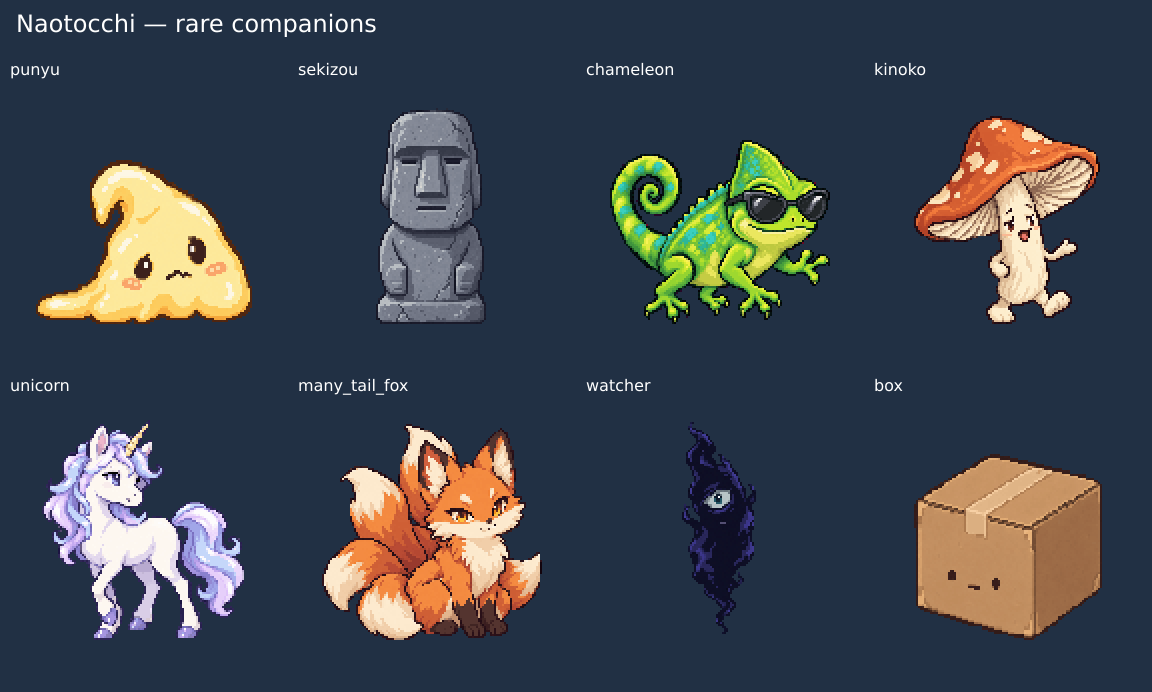
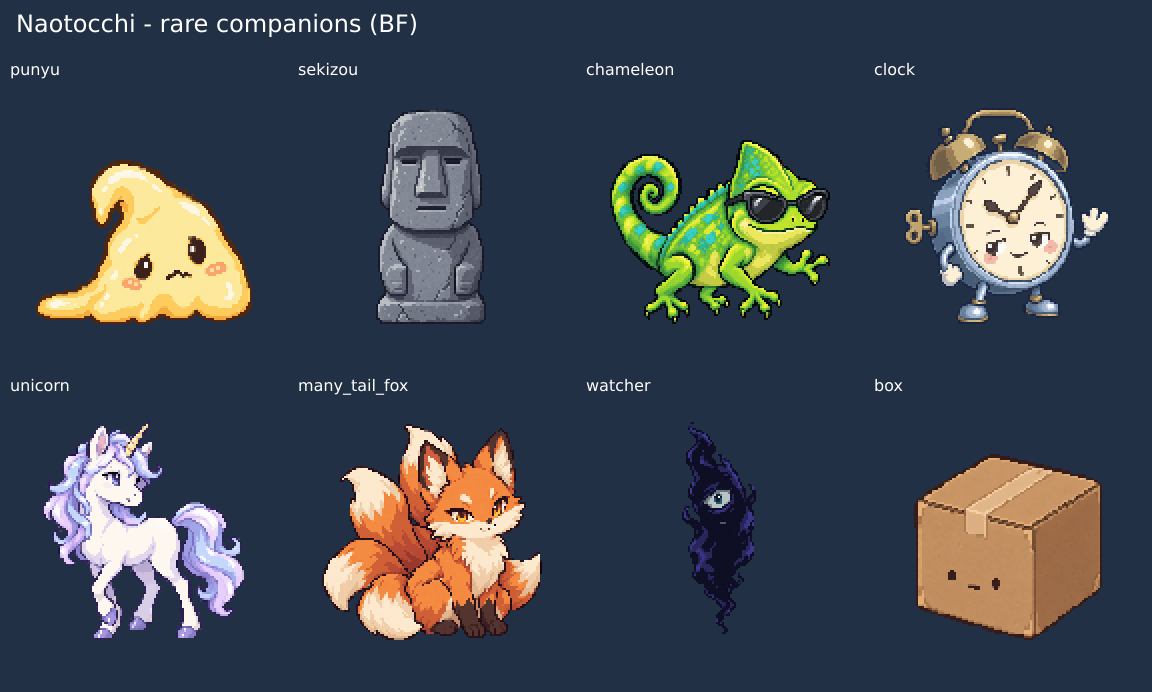
Replace rare mushroom with a laid-back clock; retain legacy saves (BF)

Changed region(s): [[0.7812, 0.1517, 0.9688, 0.4855], [0.125, 0.0, 0.375, 0.0607], [0.75, 0.091, 0.8125, 0.1214]]

diff --git a/script.js b/script.js
@@ -4012,6 +4012,11 @@
       "座る前から ここに生えてた",
       "傘は 貸せないんだ"
     ],
+    "clock": [
+      "ぴったり 遅れてきたよ",
+      "秒針だけ 先に帰った",
+      "今? だいたい このへん"
+    ],
     "unicorn": [
       "道に迷った顔では ないよ",
       "角の向きだけ 気をつけるね",
@@ -4424,6 +4429,23 @@
       ],
       "minigame_bad": [
         "日かげで 作戦たてよう"
+      ]
+    },
+    "clock": {
+      "feed": [
+        "おやつに 時計は合わせてある"
+      ],
+      "play_with": [
+        "もう一回? じゃあ針は 見ないでおく"
+      ],
+      "travel": [
+        "出発時刻? 着いてから決めよう"
+      ],
+      "minigame_great": [
+        "拍手の時間だね。ここは遅れない"
+      ],
+      "minigame_bad": [
+        "休憩は きっちり計らなくていいよ"
       ]
     },
     "unicorn": {
@@ -6943,6 +6965,7 @@
     sekizou:{emoji:'🗿',vibe:'シュール',flavor:'石像が ある。さっきより 近い 気がする',joined:'気づいたら 家まで ついてきた'},
     chameleon:{emoji:'🦎',vibe:'おしゃれ',flavor:'サングラスを かけた カメレオンが かべから はんぶん はえている',joined:'「よろしく」と ひとことだけ 言った'},
     kinoko:{emoji:'🍄',vibe:'意味不明',flavor:'きのこが しゃべっている。「やあ」と いわれた',joined:'「じゃ、いこっか」と きのこが 歩きだした'},
+    clock:{emoji:'⏰',vibe:'マイペース',flavor:'時計が「ぴったり遅れてきたよ」と 手を振った。待ち合わせは していない',joined:'「出発は だいたい今だね」と 時計が ついてきた'},
     unicorn:{emoji:'🦄',vibe:'神々しい',flavor:'ユニコーンが まよいこんできた。本人は ぜんぜん 困っていない',joined:'なぜか そのまま ついてきた'},
     many_tail_fox:{emoji:'🦊',vibe:'妖しい',flavor:'きつねの しっぽを 数えた。数えるたびに 数が ちがう',joined:'しっぽを ゆらして ついてきた'},
     watcher:{emoji:'👁',vibe:'こわい',flavor:'画面の はしから なにかが ずっと みている',joined:'見ないふりをしたら いつのまにか 仲間の列にいた'},
@@ -6982,6 +7005,12 @@
     { id:'koala', name:'のんびり コアラ', preferredRegions:[], ...COMPANION_RUNTIME.koala },
   ];
 
+  // 既に出会ったきのこは、その姿・会話・なかよし度・レア図鑑を保つ。
+  // 時計へのID変換や新規遭遇は行わない。
+  const LEGACY_RARE_COMPANIONS = [
+    { id:'kinoko', name:'しゃべる きのこ', asset:'assets/characters/companions/kinoko.png', ...RARE_COMPANION_RUNTIME.kinoko },
+  ];
+
   function hasAllCurrentCompanions(lifetime) {
     const known = new Set((lifetime.companionsRecruited || []).map(canonicalCompanionId));
     return COMPANIONS.every((c) => known.has(c.id));
@@ -6989,6 +7018,11 @@
 
   function companionDexEntries() {
     return COMPANIONS.concat(LEGACY_COMPANIONS.filter((c) => hasRecruitedCompanionId(c.id)));
+  }
+
+  function rareCompanionDexEntries() {
+    const known = new Set((state.lifetime.rareCompanionsRecruited || []).map(canonicalCompanionId));
+    return RARE_COMPANIONS.concat(LEGACY_RARE_COMPANIONS.filter((c) => known.has(c.id)));
   }
 
   function companionVisualHTML(companion, size = 'thumb') {
@@ -7010,7 +7044,8 @@
   function allCompanionsById(id) {
     const canonical = canonicalCompanionId(id);
     return COMPANIONS.find((c) => c.id === canonical) || RARE_COMPANIONS.find((c) => c.id === canonical)
-      || LEGACY_COMPANIONS.find((c) => c.id === canonical);
+      || LEGACY_COMPANIONS.find((c) => c.id === canonical)
+      || LEGACY_RARE_COMPANIONS.find((c) => c.id === canonical);
   }
 
 
@@ -11099,22 +11134,24 @@
 
   // そだち80「レアの きざし」で であえる レアなかまの セクション。まだ
   // ひとりも であっていない あいだは セクションごと かくして おく - ❓が
-  // 5つ ならんでいるだけの「たりない ずかん」に 見えない ように する ため。
+  // ならんでいるだけの「たりない ずかん」に 見えない ように する ため。
   // ヘッダーの ぜんたい数(dexProgress)にも かぞえない。ここは
   // ずかんクリア(dex-complete)の じょうけんとは まったく べつの、
   // であえたら うれしい だけの おまけの コレクション
   function renderRareCompanionDex() {
-    const recruited = state.lifetime.rareCompanionsRecruited || [];
-    const show = recruited.length > 0;
+    const entries = rareCompanionDexEntries();
+    const recruited = new Set((state.lifetime.rareCompanionsRecruited || []).map(canonicalCompanionId));
+    const knownCount = entries.filter((c) => recruited.has(c.id)).length;
+    const show = knownCount > 0;
     el.rareCompanionDexDivider.classList.toggle('hidden', !show);
     el.rareCompanionDexGrid.classList.toggle('hidden', !show);
     if (!show) {
       el.rareCompanionDexGrid.innerHTML = '';
       return;
     }
-    el.rareCompanionDexProgress.textContent = `${recruited.length} / ${RARE_COMPANIONS.length}`;
-    el.rareCompanionDexGrid.innerHTML = RARE_COMPANIONS.map((c) => {
-      const known = recruited.includes(c.id);
+    el.rareCompanionDexProgress.textContent = `${knownCount} / ${entries.length}`;
+    el.rareCompanionDexGrid.innerHTML = entries.map((c) => {
+      const known = recruited.has(c.id);
       return known
         ? `<div class="dex-cell known"><span class="dex-cell-emoji">${companionVisualHTML(c)}</span><span class="dex-cell-label">${c.name}</span></div>`
         : '<div class="dex-cell locked"><span class="dex-cell-emoji">❓</span><span class="dex-cell-label">？？？</span></div>';
@@ -20337,7 +20374,8 @@
       const companion = allCompanionsById(pendingCompanionId);
       pendingCompanionId = null;
       if (companion) {
-        const isRare = RARE_COMPANIONS.some((c) => c.id === companion.id);
+        const isRare = RARE_COMPANIONS.some((c) => c.id === companion.id)
+          || LEGACY_RARE_COMPANIONS.some((c) => c.id === companion.id);
         const threshold = isRare ? RARE_COMPANION_RECRUIT_THRESHOLD : COMPANION_RECRUIT_THRESHOLD;
         if (clampedScore >= threshold) {
           const record = isRare

diff --git a/tests/dialogue-test.js b/tests/dialogue-test.js
@@ -101,7 +101,7 @@ const expose = `
     hatchEgg, triggerDeath, enterFarewell, openExclusiveMenu, openDateChooser, closeDateOverlay, checkAchievements,
     loadState, COMPANIONS, RARE_COMPANIONS, allCompanionsById, canonicalCompanionId,
     hasAllCurrentCompanions, companionDexEntries, companionVisualHTML, renderCompanionRow, renderCompanionDex,
-    renderRareCompanionDex, renderProfile, openCompanionInvite,
+    renderRareCompanionDex, rareCompanionDexEntries, renderProfile, openCompanionInvite, scheduleCompanionEncounter,
     getState: () => state, recent: () => [...recentConversationLines],
     reset: (patch) => {
       clearConversationTimers(); clearDateMovieTimers(); hideSpeechBubble(); closeAllMenuOverlays();
@@ -111,6 +111,7 @@ const expose = `
         hunger: 50, energy: 90, happiness: 80, health: 100,
       }, patch);
       recentConversationLines = []; message = ''; gameActive = false; dateOpen = false;
+      grandGoalPending = null; pendingCompanionId = null;
       lastMemoryRecallKey = null;
     },
   };
@@ -524,3 +525,76 @@ for (const c of [...normalCast, ...rareCast]) assert.equal(allRows.join('').spli
 assert.equal(getElement('companionDexProgress').textContent, '18 / 18');
 assert.equal(getElement('rareCompanionDexProgress').textContent, '8 / 8');
 console.log('RARE CAST PNG TEST OK: 8 PNGs x 5 renderer sizes; invite/profile/row/dex; hidden and partial dex; 13+13 mixed rows; bond retained.');
+
+// The new clock has its own encounter and dialogue; a collected mushroom stays itself.
+const clockCompanion = api.allCompanionsById('clock');
+assert.ok(clockCompanion);
+assert.equal(clockCompanion.name, 'じかんに ルーズな とけい');
+assert.ok(api.RARE_COMPANIONS.some((c) => c.id === 'clock'));
+assert.ok(!api.RARE_COMPANIONS.some((c) => c.id === 'kinoko'));
+assert.equal(api.canonicalCompanionId('kinoko'), 'kinoko');
+assert.ok(master.compatibility.legacyOnlyCompanions.includes('kinoko'));
+reset();
+const oldRareLife = JSON.parse(JSON.stringify(api.getState()));
+oldRareLife.companions = [{ id: 'kinoko', bond: 73 }];
+oldRareLife.lifetime.rareCompanionsRecruited = ['kinoko'];
+oldRareLife.achievementsUnlocked = ['companion-all'];
+savedPayload = JSON.stringify(oldRareLife);
+const loadedOldRareLife = api.loadState();
+assert.equal(savedPayload, JSON.stringify(oldRareLife), 'source save must remain intact');
+savedPayload = null;
+assert.equal(loadedOldRareLife.companions[0].id, 'kinoko');
+assert.equal(loadedOldRareLife.companions[0].bond, 73);
+assert.deepEqual([...loadedOldRareLife.lifetime.rareCompanionsRecruited], ['kinoko']);
+assert.ok(loadedOldRareLife.achievementsUnlocked.includes('companion-all'));
+reset(loadedOldRareLife);
+assert.equal(api.companionSpeaker(api.getState().companions[0]).id, 'kinoko');
+api.renderCompanionRow(); api.renderProfile(); api.renderRareCompanionDex(); api.renderCompanionDex();
+assert.equal(getElement('rareCompanionDexProgress').textContent, '1 / 9');
+assert.equal(getElement('companionDexProgress').textContent, '0 / 18');
+for (const id of ['companionLeft', 'profileCompanionList', 'rareCompanionDexGrid']) {
+  assert.match(getElement(id).innerHTML, /assets\/characters\/companions\/kinoko\.png/);
+  assert.ok(!getElement(id).innerHTML.includes(clockCompanion.asset), 'old mushroom must not unlock or become the clock');
+}
+assert.ok(!getElement('companionDexGrid').innerHTML.includes('kinoko'));
+api.speakEvent('feed', { companionChance: 1 }); advance(10000);
+assert.ok(spoken.some((beat) => beat.speaker.id === 'kinoko' && api.COMPANION_DAILY_REACTIONS.kinoko.feed.includes(beat.text)));
+
+// Current entries and an already collected legacy entry count once, including across lives.
+reset();
+api.getState().lifetime.rareCompanionsRecruited = [...rareCast.map((c) => c.id), 'kinoko', 'kinoko', 'unrecognized-old-id'];
+api.renderRareCompanionDex();
+assert.equal(getElement('rareCompanionDexProgress').textContent, '9 / 9');
+assert.equal(getElement('rareCompanionDexGrid').innerHTML.split('src="assets/characters/companions/kinoko.png"').length - 1, 1);
+assert.equal(api.rareCompanionDexEntries().length, 9);
+reset();
+assert.equal(api.rareCompanionDexEntries().length, 8, 'unmet legacy character must not add a locked slot');
+api.getState().lifetime.rareCompanionsRecruited = ['unrecognized-old-id'];
+api.renderRareCompanionDex();
+assert.ok(getElement('rareCompanionDexGrid').classList.contains('hidden'));
+
+for (const [key, lines] of Object.entries(api.COMPANION_DAILY_REACTIONS.clock)) {
+  reset({ companions: [{ id: 'clock', bond: 80 }] });
+  api.speakEvent(key, { companionChance: 1, partnerChance: 0 }); advance(10000);
+  assert.ok(spoken.some((beat) => beat.speaker.id === 'clock' && lines.includes(beat.text)), key + ': clock reaction missing');
+}
+
+// With every other current companion present, the actual scheduler offers the new clock.
+reset({ sodachi: 80, maxSodachi: 80, companions: [...normalCast, ...rareCast.filter((c) => c.id !== 'clock'), { id: 'kinoko' }].map((c) => ({ id: c.id, bond: 80 })) });
+api.scheduleCompanionEncounter(); advance(180000);
+assert.equal(getElement('companionInviteTitle').textContent, 'じかんに ルーズな とけいと めが あった');
+assert.ok(getElement('companionInviteOverlay').classList.contains('rare'));
+click('companionInviteLaterBtn');
+
+// Preserve the actual GitHub baseline: rare recruitment requires 70 points.
+for (const score of [69, 70]) {
+  reset({ sodachi: 80, maxSodachi: 80 });
+  api.openCompanionInvite(clockCompanion, true);
+  api.finishMinigame(score);
+  assert.equal(api.getState().lifetime.rareCompanionsRecruited.includes('clock'), score >= 70);
+  assert.equal(api.getState().companions.some((c) => c.id === 'clock'), score >= 70);
+  assert.ok(!api.getState().lifetime.companionsRecruited.includes('clock'), 'clock must use the rare collection');
+  if (score >= 70) assert.equal(api.getState().companions.find((c) => c.id === 'clock').bond, 100);
+  click('companionInviteLaterBtn');
+}
+console.log('CLOCK CAST TEST OK: real encounter and 69/70 recruitment; five dialogue events; legacy mushroom save, bond, PNG, dialogue and rare dex; unique current/legacy counts.');

diff --git a/character-world-master.v1.js b/character-world-master.v1.js
@@ -84,7 +84,7 @@ const NAOTOCCHI_CHARACTER_WORLD_MASTER_V1 = {
       { id: 'punyu', label: 'とけかけの ぷにゅ', asset: 'assets/characters/companions/punyu.png' },
       { id: 'sekizou', label: 'むひょうじょうの せきぞう', asset: 'assets/characters/companions/sekizou.png' },
       { id: 'chameleon', label: 'サングラスの カメレオン', asset: 'assets/characters/companions/chameleon.png' },
-      { id: 'kinoko', label: 'しゃべる きのこ', asset: 'assets/characters/companions/kinoko.png' },
+      { id: 'clock', label: 'じかんに ルーズな とけい', behavior: '時刻を聞かれても大まかに答える。遅れて来ても落ち着いている', asset: 'assets/characters/companions/clock.png' },
       { id: 'unicorn', label: 'まよいこんだ ユニコーン', asset: 'assets/characters/companions/unicorn.png' },
       { id: 'many_tail_fox', label: 'しっぽの おおい きつね', asset: 'assets/characters/companions/many_tail_fox.png' },
       { id: 'watcher', label: 'みている なにか', asset: 'assets/characters/companions/watcher.png' },
@@ -180,7 +180,7 @@ const NAOTOCCHI_CHARACTER_WORLD_MASTER_V1 = {
       chameleon: 'chameleon',
       kinoko: 'kinoko',
     },
-    legacyOnlyCompanions: ['hakuchou','koala'],
+    legacyOnlyCompanions: ['hakuchou','koala','kinoko'],
 
     partnerAliases: {
       mermaid: 'sea_mermaid',

diff --git a/index.html b/index.html
@@ -607,7 +607,7 @@
 
   <div class="season-front-fx" id="seasonFrontFx"></div>
 
-  <script src="character-world-master.v1.js?v=20260909-cast-rare-be-1"></script>
-  <script src="script.js?v=20260909-cast-rare-be-1"></script>
+  <script src="character-world-master.v1.js?v=20260909-cast-clock-bf-1"></script>
+  <script src="script.js?v=20260909-cast-clock-bf-1"></script>
 </body>
 </html>

diff --git a/docs/art/rare-cast-128.md b/docs/art/rare-cast-128.md
@@ -1,6 +1,8 @@
-# レア仲間8体の128px画像（チェックポイントBE）
+# レア仲間8体の128px画像（チェックポイントBF）
 
-現行WORLD_MASTERのレア仲間8体に専用PNGを追加した。通常仲間18体と合わせ、仲間26体が既存のCharacter Rendererで画像を表示できる。先行267枚（プレイヤー248・作者1・通常仲間18）は、GitHub HEAD `79a47d46ee47075c238e08945ca458d8e7d38f41` とバイト一致のまま保持した。
+ユーザーの承認に基づき、新規遭遇の「しゃべる きのこ」を「じかんに ルーズな とけい」へ交代した。育成キノコはそのまま残す。現行の通常仲間18体とレア仲間8体、計26体に専用PNGがある。
+
+基準はPR #183のGitHub HEAD `db0969d95eaffb502af677222df2217f63e95de5`（BE、Runtime #223 SUCCESS）。時計1枚だけを新規制作し、既存275枚は旧きのこの画像も含めてバイト不変で保持した。
 
 ![128px実寸のレア仲間8体](rare-cast-128.png)
 
@@ -13,7 +15,7 @@
 | `punyu` | 淡い黄色の身体が片側へ広がる、困り顔のぷにゅ。丸い紫の？？？とは輪郭と材質を分けた。 |
 | `sekizou` | 灰色の石像。細い彫り目・長い鼻・一直線の口で無表情を保持。台座まで一続きの像。 |
 | `chameleon` | 緑と青緑の身体、サングラス、口元の笑み、巻いた尾。4本の脚と足先を残した。 |
-| `kinoko` | 傾いた銅橙色の傘と長い柄、歩く足、話しかける腕と開いた口。育成キノコと姿勢・傘の輪郭を分けた。 |
+| `clock` | 青銀色の丸い目覚まし時計、真鍮色の二つのベル、アイボリーの文字盤。半目の穏やかな笑顔で手を振る。時計の針と目・口を分け、両腕・両足・ぜんまいを残した。 |
 | `unicorn` | 白い身体、淡い紫と青のたてがみ、一本の角、4本の脚。迷子でも落ち着いた表情。 |
 | `many_tail_fox` | 琥珀色の目と穏やかな笑み。重なった尾の先を5つ見せ、数えたくなる輪郭にした。ゲーム側へ尾の本数の固定設定は追加しない。 |
 | `watcher` | 細い紺色の影に一つの目と小さな口。ぷにゅの丸さやおばけの愛嬌と区別し、こちらを見る存在感を重視。 |
@@ -21,16 +23,22 @@
 
 ## 制作・実装
 
-内蔵画像生成で一体ずつ制作。カメレオンだけ、足先の省略を単体修正し、編集後に生じた市松背景を背景のみの再編集でマゼンタへ置き換えて透過した。巻いた尾の内側・脚の間も抜き、緑の身体・爪・サングラスの反射を保持した。他7枚は修正のたびに再生成していない。
+時計は内蔵画像生成で一体だけ制作。原画の透過alphaを使い、個体全体の範囲を確認してnearest-neighborで128pxへ縮小した。減色後もベル・取っ手・ぜんまい・両腕・両足・目・口・頬を確認。他のキャラは再生成・再減色していない。
 
-各単体の全身を確認し、個別の縮尺で128pxへ書き出した。一覧の均等分割・一括crop・GrabCutは不使用。新8枚は128×128・8-bit RGBA・二値alpha・最大63不透明色・上下左右8px以上の透明余白。全275 PNGのCRC・実復号・寸法・透過・余白を確認し、先行267枚を再減色していない。
+時計のPNGは128×128・8-bit RGBA・二値alpha・最大63不透明色・上下左右8px以上の透明余白。全chunk CRC・実復号・寸法・色数・余白・SHA-256を確認。一覧の均等分割・一括crop・GrabCutは不使用。上の一覧画像は各完成PNGから組み立てた確認用画像であり、個別素材の切り出し元ではない。
 
-レア仲間の定義とRuntimeへassetを渡し、レア図鑑を共有画像表示関数へ接続した。誘い画面・プロフィール・仲間列は既存の共有処理をそのまま利用する。キャストID、名称、セリフ、遭遇・加入条件、セーブ形式、CSSは変更していない。
+WORLD_MASTERの新規レア枠に独立ID `clock` を登録。待機会話3本、食事・じゃれる・移動・ゲーム成功・失敗の反応各1本、初遭遇・加入文を追加した。誘い画面・プロフィール・仲間列・レア図鑑は共有の画像表示を使う。
+
+### 旧セーブと出会いの条件
+
+旧セーブの `kinoko` は時計へ変換しない。同行・なかよし度・専用PNG・従来の会話・獲得済み記録を保持し、新規遭遇の抽選からだけ外した。既に獲得していた人のレア図鑑にはきのこも残り、現在8枠に旧1枠が加わる。未獲得の人には旧枠を増やさない。重複IDや不明な旧IDで図鑑の分子を水増ししない。
+
+出会いは従来どおり「そだち80」以降。加入条件の実装値はGitHub基準で **70点以上** であり、今回変更していない。時計はレアの獲得記録に入り、通常仲間のコンプリート条件やゲームの時間進行には作用しない。
 
 ## 検証と残作業
 
-Runtime smoke（DOM 286 / ミニゲーム89 / variant collections 80）と会話・本文・旧コアラ互換の回帰テストが成功。追加テストでは、8体×5表示サイズ、各体の誘い・プロフィール・仲間列・図鑑、未遭遇時のレア図鑑非表示、1/8表示、8/8表示、通常とレアを合わせた左右13体ずつの参照、なかよし度の保持を確認した。
+Runtime smoke（DOM 286 / ミニゲーム89 / variant collections 80）と会話・全248段階本文・旧コアラ互換・通常/レアPNGの既存回帰テストが成功。追加テストでは、実際の遭遇スケジューラーによる時計の選択、69点では未加入・70点で加入、5種の行動会話、旧きのこの読込・なかよし度・同行・プロフィール・PNG・会話・レア図鑑、通常図鑑との分離を確認。レア図鑑は新規8/8、旧きのこ保持時1/9・9/9、未獲得旧枠の非表示・重複/不明IDの除外を検証した。
 
-画像は原画・128px実寸・白背景・濃色背景で目視確認済み。実ゲームのブラウザー撮影は未実施で、この環境では前回の開発URLへの接続が `ERR_BLOCKED_BY_CLIENT` になっている。Runtimeハーネスの成功を実画面確認の成功とは扱わない。
+時計は原画・128px実寸・白背景・濃色背景で目視確認済み。実ゲームのブラウザー撮影は今回未実施。過去の開発URLへの接続は `ERR_BLOCKED_BY_CLIENT` となっており、Runtimeハーネスの成功を実画面確認の成功とは扱わない。
 
-専用キャスト45素材のうち27枚（作者1・通常仲間18・レア仲間8）が存在する。残りは恋人18枚。作者画像のイベント・エンディングへの反映と、実画面での表示確認も残る。全体は未完了、PR #183はopen / Draft・未マージで継続する。
+現行専用キャスト45素材のうち27枚（作者1・通常仲間18・レア仲間8）が存在する。別に旧きのこ1枚を保持し、プレイヤー248枚を含むキャラPNG総数は276枚。残りは恋人18枚、作者画像のイベント・エンディング反映、実画面確認。全体は未完了、PR #183はopen / Draft・未マージで継続する。

diff --git a/DEVELOPMENT_CHECKPOINT_2026-09-07.md b/DEVELOPMENT_CHECKPOINT_2026-09-07.md
@@ -1426,3 +1426,14 @@ Runtime smoke test SUCCESS確認済み。
 - `docs/art/rare-cast-128.md` と同ディレクトリのPNG/JSONに画像一覧・個体の特徴・生成指示・個別修正・寸法・余白・色数・SHA-256を保存。今回も実ブラウザーでのゲーム画面撮影は未実施であり、前回確認した環境の開発URL制限 `ERR_BLOCKED_BY_CLIENT` がある。画像レビューとRuntimeハーネスを実画面確認とは区別する。
 - 仲間は通常18＋レア8の26体に専用PNGが揃った。プレイヤー248枚、専用キャスト45素材中27枚（作者1・通常18・レア8）が存在する。残りの画像は恋人18枚。作者画像のイベント・エンディング反映と実画面確認も残り、全体は未完了。
 - GitHub反映後に当該HEADのtreeと追加・更新ファイルを実バイトで再取得・照合し、Actions結果と最新HEADをPR本文へ記録する。PR #183はopen / Draft・未マージで保持する。
+
+## チェックポイント BF — レアきのこを時間にルーズな時計へ交代（2026-09-09）
+- ユーザーが育成キノコとレアきのこの重複を指摘。実際の絵と現行キャスト・会話を比較し、「改善して維持」の判断を再検討した。ユーザーの「時計に変えますか！ それで進めて」に基づき、レアの新規遭遇1枠を独立ID `clock`、名称「じかんに ルーズな とけい」へ交代。育成 `mushroom` の8段階は変更しない。
+- GitHubのPR #183・HEAD・Actions・recursive treeを実取得。基準HEAD兼最後の成功コミットは `db0969d95eaffb502af677222df2217f63e95de5`、tree `5afd32b58da3743d1862fffa203dc8b220d2c5ba`、Runtime #223（run `34324103408`）SUCCESS。main `044780ddebdcb75ebb9e13ea26043b5230e003c7`。全299ファイルのGit blob SHAがローカルと一致してから作業した。
+- 時計1枚を内蔵画像生成で個別制作し、`assets/characters/companions/clock.png` に保存。青銀色の丸い体、真鍮色の二つのベル、アイボリーの文字盤、半目の笑顔、手を振る姿で他キャストと区別。取っ手・ぜんまい・両腕・両足・目・口・頬・針を保持し、原画・128px実寸・白/濃色背景で確認した。生成指示と原画/完成PNGのSHA-256は `docs/art/rare-cast-128-validation.json` に保存。
+- 新1枚は128×128 / 8-bit RGBA / alpha 0・255 / 不透明63色 / 全方向8px以上の透明余白。生成alphaを使って個別縮小し、全chunk CRC・実復号・余白・色数・ハッシュを確認。既存275枚（旧きのこを含む）はGitHub基準とバイト不変。均等セル分割・一括crop・GrabCut・他キャラの再生成は不使用。
+- 時計に待機会話3本、食事・じゃれる・移動・ゲーム成功・失敗の反応各1本、初遭遇・加入文を追加。新規のレア抽選は従来どおり8体。遭遇は「そだち80」以降、レア加入の現行コード値は **70点以上**。今回、加入条件・抽選率・ゲームの時間進行・CSS・通常仲間/恋人/伝説の設定は変更していない。
+- 旧 `kinoko` は時計へalias変換しない。専用の旧レア定義を用意し、セーブ中のID・なかよし度・同行・PNG・会話・獲得済み記録を保持。新規抽選から除外し、獲得済みの人にだけレア図鑑へ追加する。通常図鑑には混ぜず、現在8枠と旧1枠の表示は1/9〜9/9。未獲得の人は現在8枠のみ。重複・不明IDを進捗の分子へ加算しない。既存コアラ互換も保持。
+- Runtime smoke SUCCESS（DOM 286 / ミニゲーム89 / variant collections 80）。DIALOGUE / WHOLE-TEXT / CAST / NORMAL CAST PNG / RARE CAST PNGテストSUCCESS。新規CLOCK CASTテストは実際の遭遇スケジューラー、69点の不成立・70点の加入、レア記録とbond 100、5種類の行動会話、旧きのこの読込・画像・会話・図鑑、8/8・1/9・9/9・未獲得枠・重複/不明IDを確認。テスト間に前のゴール画面状態が残らないようハーネスのresetを補正し、製品のゴール処理は変更しない。
+- 現行レアの画像一覧と仕様・検証JSONを更新。現行専用キャスト45素材中27枚、別に旧きのこ1枚を保持し、プレイヤー248枚を含むキャラPNG総数は276枚。恋人18枚、作者画像のイベント・エンディング反映、実画面確認は残る。実ゲームのブラウザー撮影は今回未実施であり、以前の開発URLへの接続拒否 `ERR_BLOCKED_BY_CLIENT` とRuntimeハーネスの確認を区別する。
+- GitHub反映後の実ファイル・到達可能なtree・当該HEADのActions結果を再取得し、PR本文へ最新状態を記録する。PR #183はopen / Draft・未マージで継続し、全体は未完了。
